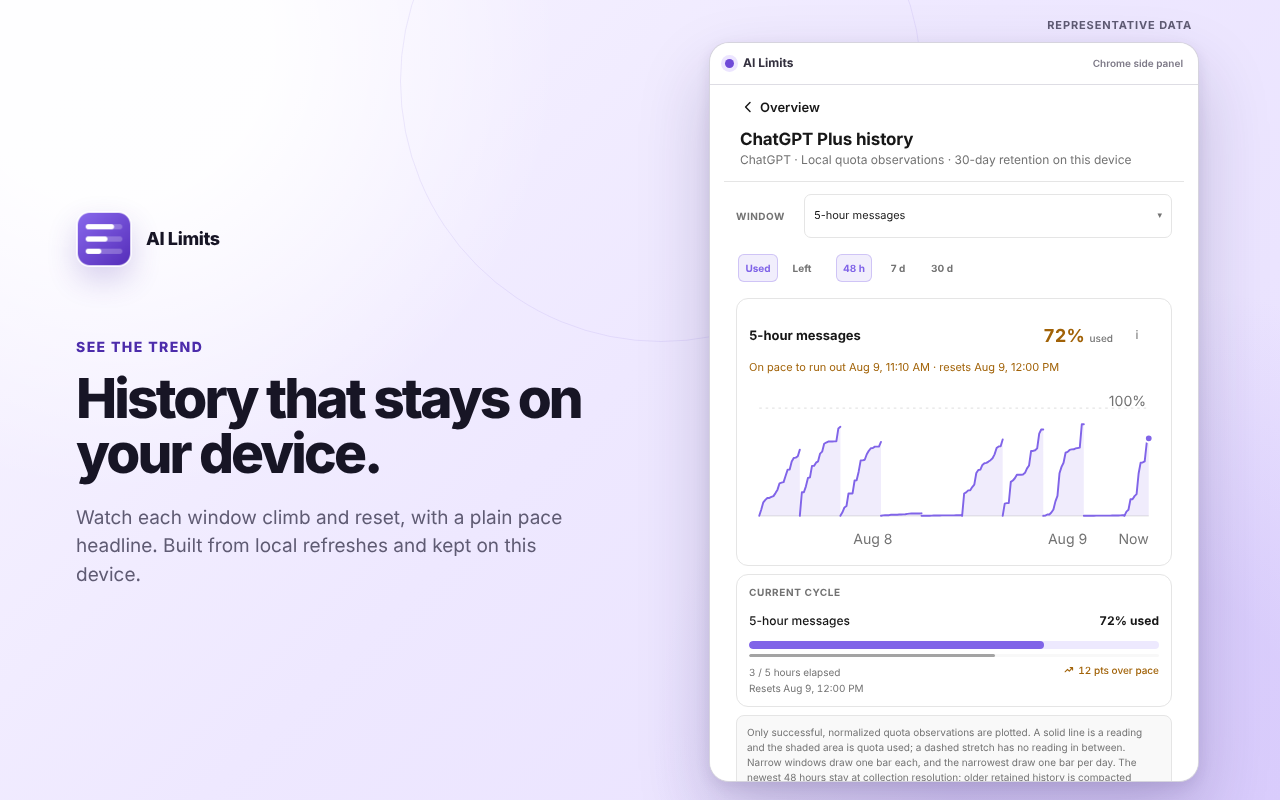
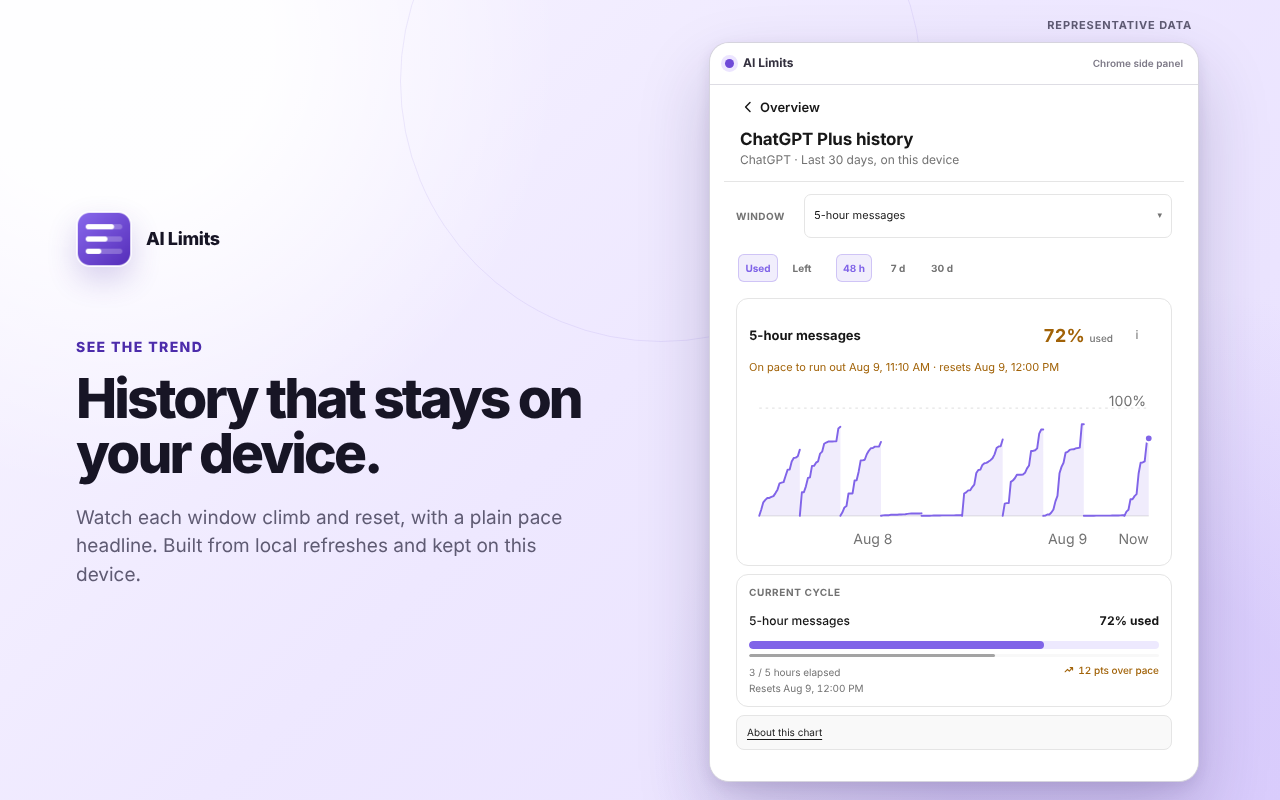
fix: clearer consent and tab notes; tidy help page; refresh store screenshots
Address review round 1: name cookies in the Add account consent, say where
Kimi and Gumloop tokens are renewed and that Kimi, Gumloop, Cursor and Grok
may briefly open a tab, restore the way out of the all-used-up screen, move
the help icon out of the heading with a 24 px target, match the detail
link's accessible name to its text, add disconnect details to the help
page, drop duplicate help paragraphs and dead CSS, and regenerate the
History and privacy store screenshots.

Claude-Session: https://claude.ai/code/session_011ZoMPc19AXAJgXWX5Far2C

Changed region(s): [[0.5625, 0.9062, 0.9062, 1.0], [0.625, 0.1875, 0.875, 0.2188]]

diff --git a/entrypoints/sidepanel/Cockpit.test.tsx b/entrypoints/sidepanel/Cockpit.test.tsx
@@ -1197,7 +1197,7 @@ describe("Cockpit", () => {
     expect(within(usage).getByText("$8.20 / $20.00 spent")).toBeVisible();
     expect(screen.getByRole("button", { name: "Open Claude history" })).toBeVisible();
     expect(screen.getByRole("heading", { name: "Connection" })).toBeVisible();
-    expect(screen.getByRole("link", { name: "How Claude connects" })).toHaveAttribute(
+    expect(screen.getByRole("link", { name: "How it connects" })).toHaveAttribute(
       "href",
       "https://get-ai-limits.com/connections/#claude",
     );
@@ -1547,7 +1547,7 @@ describe("Cockpit", () => {
     ).toBeVisible();
     expect(
       screen.getByText(
-        "Deletes this account's sign-in or key, usage and history. This can't be undone.",
+        "Deletes this connection's saved credentials, settings, usage and history. This can't be undone.",
       ),
     ).toBeVisible();
 
@@ -2188,7 +2188,8 @@ describe("Cockpit", () => {
   });
 
   it("shows Kimi's sign-in token note and help link on First Run and Add Provider", () => {
-    const connectionDisclosure = "Reads Kimi's sign-in token from kimi.com.";
+    const connectionDisclosure =
+      "Reads Kimi's sign-in tokens from kimi.com and renews them at auth.kimi.com. May briefly open a Kimi tab on Connect or Refresh.";
 
     renderCockpit(createEmptyFixtureState());
     let kimi = screen.getByRole("article", { name: "Kimi" });

diff --git a/entrypoints/sidepanel/styles.css b/entrypoints/sidepanel/styles.css
@@ -2185,8 +2185,7 @@ section[aria-labelledby="overview-title"] .provider-list {
   line-height: 1.5;
 }
 
-.first-run__header ul,
-.connection-surface ul {
+.first-run__header ul {
   display: grid;
   gap: 5px;
   margin: 10px 0 0;
@@ -2197,14 +2196,12 @@ section[aria-labelledby="overview-title"] .provider-list {
   list-style: none;
 }
 
-.first-run__header li,
-.connection-surface li {
+.first-run__header li {
   position: relative;
   padding-left: 14px;
 }
 
-.first-run__header li::before,
-.connection-surface li::before {
+.first-run__header li::before {
   position: absolute;
   left: 1px;
   color: var(--quota);
@@ -2248,14 +2245,20 @@ section[aria-labelledby="overview-title"] .provider-list {
   font-size: 12px;
 }
 
+.provider-connect-row__name {
+  display: flex;
+  align-items: center;
+  gap: 0;
+}
+
 .provider-connect-row__help {
   display: inline-flex;
+  flex: none;
   align-items: center;
   justify-content: center;
-  width: 16px;
-  height: 16px;
-  margin-left: 4px;
-  vertical-align: -3px;
+  width: 24px;
+  height: 24px;
+  margin: -5px 0;
   color: var(--text-muted);
   border-radius: 50%;
 }

diff --git a/entrypoints/sidepanel/components/ProviderConnectRow.tsx b/entrypoints/sidepanel/components/ProviderConnectRow.tsx
@@ -64,8 +64,8 @@ export function ProviderConnectRow({
         <div className="provider-connect-row__identity">
           <ProviderMark providerId={providerKind} size="md" />
           <div>
-            <h3>
-              <span id={headingId}>{name}</span>
+            <div className="provider-connect-row__name">
+              <h3 id={headingId}>{name}</h3>
               <a
                 className="provider-connect-row__help"
                 href={connectionHelpUrl(providerKind)}
@@ -78,7 +78,7 @@ export function ProviderConnectRow({
               >
                 <Icon name="info" />
               </a>
-            </h3>
+            </div>
             <p>
               {addsAccount
                 ? l10n.t("connections.accountsConnected", {

diff --git a/entrypoints/sidepanel/views/ProviderDetailView.tsx b/entrypoints/sidepanel/views/ProviderDetailView.tsx
@@ -4,7 +4,6 @@ import { l10n } from "../../../i18n/index";
 import {
   connectionHelpUrl,
   localizeOperation,
-  localizeProviderName,
 } from "../../../i18n/presentation";
 import {
   type ProviderInstanceId,
@@ -304,9 +303,6 @@ export function ProviderDetailView({
               href={connectionHelpUrl(provider.providerId)}
               target="_blank"
               rel="noopener noreferrer"
-              aria-label={l10n.t("connections.howItConnectsNamed", {
-                provider: localizeProviderName(provider.providerId),
-              })}
             >
               {l10n.t("connections.howItConnects")}
             </a>

diff --git a/i18n/presentation.test.ts b/i18n/presentation.test.ts
@@ -212,4 +212,3 @@ describe("locale-neutral presentation", () => {
     ).toBe("Kimi");
   });
 });
-

diff --git a/CONNECTIONS.md b/CONNECTIONS.md
@@ -20,6 +20,10 @@ Moves a plan off the Overview while every one of its usage pools is at its limit
 
 English and Simplified Chinese only. Other browser languages fall back to English. The browser’s own menus and the extension name stay in the browser’s language.
 
+### Disconnecting
+
+Disconnecting deletes that connection's saved credentials, configuration, usage, and history right away. Removing the browser's site permission can be delayed, and is skipped while another connection to the same site still needs it. Delete all local data in Settings removes everything at once; there is no cloud copy.
+
 ### Adding another account (Cursor, ChatGPT)
 
 A browser holds one sign-in per site, so AI Limits keeps one for each Cursor or ChatGPT account. When you add an account, your browser asks for permission to use that service's cookies. AI Limits saves each account's sign-in cookies (its HttpOnly cookies, except bot protection) on this device, for the card they belong to: the account signed in now, and each other account when it is read while this browser is signed in to it. It sends them only to that service and deletes them when you disconnect that card. Don't use Log out on the service's site: it would end the saved sign-in of your other account too.
@@ -44,13 +48,11 @@ Connect and manual Refresh may briefly open one inactive Kimi tab when recovery 
 
 Reads base usage from your signed-in Cursor session and refreshes it about every 15 minutes. To request Grok Bot and extra-credit JSON, AI Limits may run bundled read-only code in one already-open cursor.com page, including during scheduled refresh. Only Connect or manual Refresh may briefly open one inactive spending tab when none is open. It does not inspect page content, browser storage, or cookie values directly; the browser attaches signed-in Cursor cookies to those fixed same-origin requests.
 
-Connect and manual Refresh prefer an already-open Cursor tab. If none is open, they may briefly open one inactive spending tab. Scheduled refresh may read from an already-open Cursor tab and never opens one.
+Connect and manual Refresh prefer an already-open Cursor tab. Scheduled refresh never opens one.
 
 ### Grok
 
 Reads usage from an already-open grok.com page. On Connect or manual Refresh, AI Limits may run bundled read-only code there, or briefly open one inactive grok.com tab if none is open. It does not inspect page content, browser storage, or cookie values directly; the browser attaches signed-in Grok cookies to those same-origin requests. Scheduled refresh may inject into an already-open grok.com tab and never opens a new one.
-
-Connect and manual Refresh prefer an already-open grok.com tab. If none is open, they may briefly open one inactive grok.com tab. Scheduled refresh may inject into an already-open grok.com tab and never opens a new one.
 
 ### Gumloop
 
@@ -116,7 +118,7 @@ Uses a Warp API key you create, stores it locally in AI Limits, sends it only to
 
 Supports multiple independent connections. Each stores its own New API instance URL, relay key, label, usage, and History locally; same-origin connections share only the browser's host permission.
 
-Each New API connection keeps its own relay key, label, usage, and history. It shows key-specific granted, used, and remaining quota. Unlimited keys show absolute usage without an invented percentage. Same-origin connections share only the browser's host permission. New API also shows key-specific granted, used, and remaining quota; unlimited keys show absolute usage without an invented percentage.
+It shows the key's granted, used, and remaining quota. Unlimited keys show absolute usage without an invented percentage.
 
 Paste the homepage, dashboard URL, or an API URL such as /v1/messages. AI Limits removes known console and API suffixes, then validates the instance through /api/status. HTTPS is required, except localhost for development.
 
@@ -146,7 +148,7 @@ Each LiteLLM, ClawRouter, sub2api, LLM Proxy connection keeps its own instance U
 
 Paste the base URL of the instance. AI Limits validates and normalizes it before requesting only that instance's read-only usage endpoint. HTTPS is required, except localhost for development.
 
-Saved locally and sent only to the configured instance origin for its read-only usage request.
+Each key is stored locally and sent only to its own instance, for that read-only usage request.
 
 AI Limits does not inspect provider pages or send this key to any other origin. Each configured instance is read independently.
 
